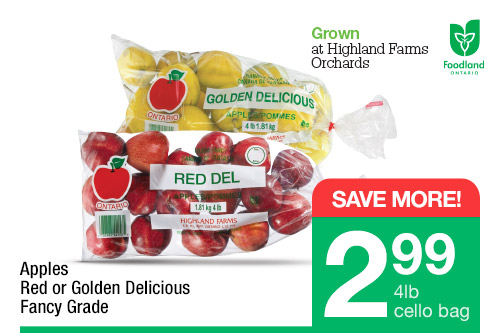
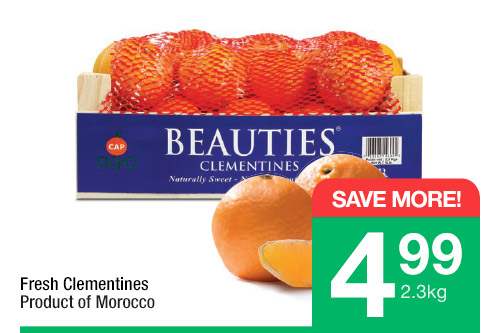
Updated #27 added new carousel images to take effect tonight at 10pm

diff --git a/htdocs/prod/web/assets/css/styles.css b/htdocs/prod/web/assets/css/styles.css
@@ -5492,6 +5492,11 @@ button.close {
   margin-top: -25px;
 }
 
+.dow-product-details {
+  font-weight: bold;
+  line-height: 24px;
+}
+
 /* Start copy overlay on homepage carousel image */
 .carousel-item-container {
   float: none;

diff --git a/htdocs/prod/web/application/views/home.php b/htdocs/prod/web/application/views/home.php
@@ -25,7 +25,7 @@
         <a  href="/flyer"class="item responsive">
             <div class="carousel-item-container desktop col-xs-12 home-carousel-caption">
                 <div class="row dow-product-desc-container">
-                    <p class="pull-left desktop dow-product-desc">Fresh Ontario<br/>Pork Back Ribs</p>
+                    <p class="pull-left desktop dow-product-desc">Grade A Butterball Frozen Turkeys<br/>All Sizes<br/><h5 class="dow-product-details">Limit of 1 per family</h5></p>
                 </div>
                 <img class="desktop" src="<?=site_url()?>/assets/images/home_price-2.png">
             </div>
@@ -36,7 +36,7 @@
         <a href="/flyer" class="item responsive">
             <div class="carousel-item-container desktop col-xs-12 home-carousel-caption">
                 <div class="row dow-product-desc-container">
-                    <p class="pull-left desktop dow-product-desc">Apples<br/>Red or Golden Delicious<br/>Fancy Grade</p>
+                    <p class="pull-left desktop dow-product-desc">Fresh Clementines<br/>Product of Morocco</p>
                 </div>
                 <img class="desktop" src="<?=site_url()?>/assets/images/home_price-3.png">
             </div>
